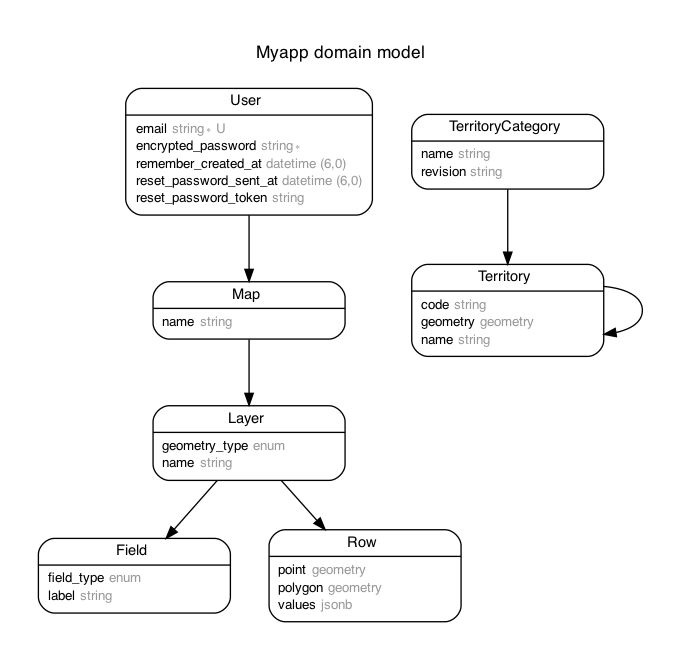
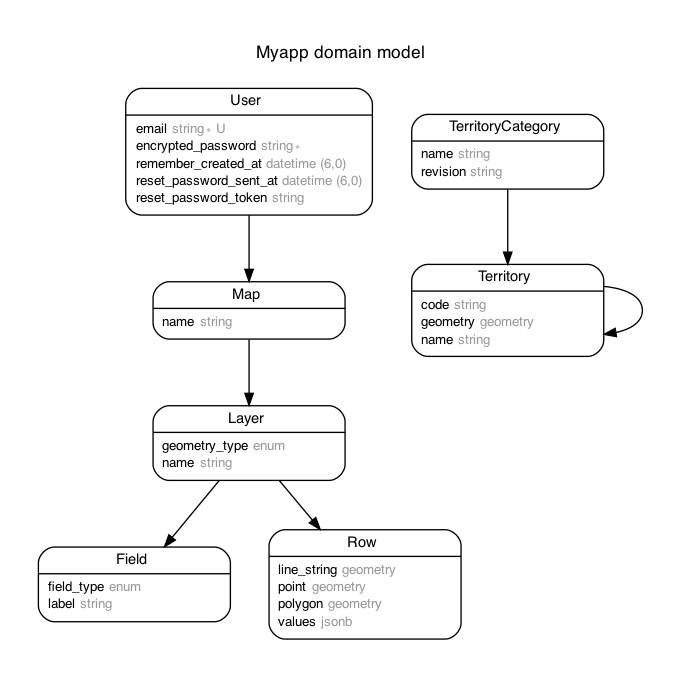
Add Layer type line_string
fixes #37

diff --git a/app/javascript/controllers/map_controller.js b/app/javascript/controllers/map_controller.js
@@ -6,7 +6,7 @@ import PresenceTrackers from 'lib/presence_trackers'
 import MapboxDraw from '@mapbox/mapbox-gl-draw'
 
 export default class extends Controller {
-  static targets = ['longitudeField', 'latitudeField', 'polygonField', 'newPolygonForm', 'newPointForm', 'map', 'point', 'polygon']
+  static targets = ['longitudeField', 'latitudeField', 'lineStringField', 'polygonField', 'newPolygonForm', 'newLineStringForm', 'newPointForm', 'map', 'point', 'lineString', 'polygon']
   static values = {
     editable: Boolean,
     layerId: String,
@@ -54,10 +54,24 @@ export default class extends Controller {
     this.draw.delete(polygon.id)
   }
 
+  lineStringTargetConnected (lineString) {
+    // a lineString can be connected when this.draw isn’t initialized yet
+    if (this.draw) {
+      this.#addLineString(lineString)
+    }
+  }
+
+  lineStringTargetDisconnected (lineString) {
+    this.draw.delete(lineString.id)
+  }
+
   #initMap () {
     this.map = newMap(this.mapTarget)
     if (this.geometryTypeValue === 'point') {
       this.markers.forEach(marker => marker.addTo(this.map))
+    } else if (this.geometryTypeValue === 'line_string') {
+      this.#initLineStringDraw()
+      this.lineStringTargets.forEach(lineString => this.#addLineString(lineString))
     } else if (this.geometryTypeValue === 'polygon') {
       this.#initPolygonDraw()
       this.polygonTargets.forEach(polygon => this.#addPolygon(polygon))
@@ -90,6 +104,51 @@ export default class extends Controller {
       clearTimeout(this.clickTimer)
       this.clickTimer = null
     }
+  }
+
+  #initLineStringDraw () {
+    const rwOptions = {
+      displayControlsDefault: false,
+      // Select which mapbox-gl-draw control buttons to add to the map.
+      controls: {
+        line_string: true
+      },
+      // Set mapbox-gl-draw to draw by default.
+      // The user does not have to click the polygon control button first.
+      defaultMode: 'draw_line_string'
+    }
+
+    const roOptions = {
+      displayControlsDefault: false
+    }
+
+    this.draw = new MapboxDraw(this.editableValue ? rwOptions : roOptions)
+    this.map.addControl(this.draw)
+
+    if (this.editableValue) {
+      this.map.on('draw.create', ({ features }) => {
+        this.lineStringFieldTarget.value = JSON.stringify(features[0].geometry)
+        this.newLineStringFormTarget.requestSubmit()
+        // When we submit the drawn line_string, we get one back from the server through turbo
+        // So we remove the one we’ve just drawn
+        this.draw.delete(features[0].id)
+      })
+      this.map.on('draw.update', ({ features }) => {
+        const id = features[0].id
+        const lineString = document.getElementById(id)
+        lineString.lineStringController.update(features[0].geometry)
+      })
+    }
+  }
+
+  #addLineString (lineString) {
+    const geometry = lineString.lineStringController.geojson()
+    const feature = {
+      id: lineString.id,
+      type: 'Feature',
+      geometry
+    }
+    this.draw.add(feature)
   }
 
   #initPolygonDraw () {

diff --git a/app/javascript/controllers/line_string_controller.js b/app/javascript/controllers/line_string_controller.js
@@ -1,0 +1,24 @@
+import { Controller } from '@hotwired/stimulus'
+
+export default class extends Controller {
+  static targets = ['form', 'geojson']
+
+  connect () {
+    // Small hack inspired by https://dev.to/leastbad/the-best-one-line-stimulus-power-move-2o90
+    this.element.lineStringController = this
+    this.element.dataset.mapTarget = 'lineString'
+  }
+
+  save () {
+    this.formTarget.requestSubmit()
+  }
+
+  geojson () {
+    return JSON.parse(this.geojsonTarget.value)
+  }
+
+  update (geojson) {
+    this.geojsonTarget.value = JSON.stringify(geojson)
+    this.formTarget.requestSubmit()
+  }
+}

diff --git a/db/schema.rb b/db/schema.rb
@@ -10,7 +10,7 @@
 #
 # It's strongly recommended that you check this file into your version control system.
 
-ActiveRecord::Schema[7.0].define(version: 2022_06_29_102323) do
+ActiveRecord::Schema[7.0].define(version: 2022_07_04_102157) do
   # These are extensions that must be enabled in order to support this database
   enable_extension "pg_trgm"
   enable_extension "pgcrypto"
@@ -28,7 +28,7 @@ ActiveRecord::Schema[7.0].define(version: 2022_06_29_102323) do
 
   create_enum :geometry_type_enum, [
     "point",
-    "linestring",
+    "line_string",
     "polygon",
   ], force: :cascade
 
@@ -65,6 +65,7 @@ ActiveRecord::Schema[7.0].define(version: 2022_06_29_102323) do
     t.datetime "created_at", default: -> { "CURRENT_TIMESTAMP" }, null: false
     t.datetime "updated_at", default: -> { "CURRENT_TIMESTAMP" }, null: false
     t.geometry "polygon", limit: {:srid=>4326, :type=>"st_polygon"}
+    t.geometry "line_string", limit: {:srid=>4326, :type=>"line_string"}
     t.index ["layer_id"], name: "index_rows_on_layer_id"
   end
 

diff --git a/app/models/row.rb b/app/models/row.rb
@@ -2,13 +2,14 @@
 #
 # Table name: rows
 #
-#  id         :uuid             not null, primary key
-#  point      :geometry         point, 0
-#  polygon    :geometry         polygon, 4326
-#  values     :jsonb
-#  created_at :datetime         not null
-#  updated_at :datetime         not null
-#  layer_id   :uuid
+#  id          :uuid             not null, primary key
+#  line_string :geometry         linestring, 4326
+#  point       :geometry         point, 0
+#  polygon     :geometry         polygon, 4326
+#  values      :jsonb
+#  created_at  :datetime         not null
+#  updated_at  :datetime         not null
+#  layer_id    :uuid
 #
 # Indexes
 #
@@ -49,8 +50,8 @@ class Row < ApplicationRecord
     case layer.geometry_type
     when "point"
       point
-    when "line"
-      line
+    when "line_string"
+      line_string
     when "polygon"
       polygon
     else

diff --git a/app/models/layer.rb b/app/models/layer.rb
@@ -21,7 +21,7 @@ class Layer < ApplicationRecord
   belongs_to :map
   has_many :fields, dependent: :delete_all
   has_many :rows, dependent: :delete_all
-  enum enum_geometry_type: {point: :point, linestring: :linestring, polygon: :polygon, territory: :territory}
+  enum enum_geometry_type: {point: :point, line_string: :line_string, polygon: :polygon, territory: :territory}
   validates :geometry_type, inclusion: {in: enum_geometry_types.keys}
 
   after_update_commit -> { broadcast_replace_to self, target: "layer-header", partial: "layers/name" }

diff --git a/app/controllers/rows_controller.rb b/app/controllers/rows_controller.rb
@@ -87,6 +87,9 @@ class RowsController < ApplicationController
     elsif @layer.geometry_type == "polygon"
       polygon = params.require(:row).permit(:polygon)[:polygon]
       @geometry = RGeo::GeoJSON.decode(polygon, geo_factory: RGEO_FACTORY)
+    elsif @layer.geometry_type == "line_string"
+      line_string = params.require(:row).permit(:line_string)[:line_string]
+      @geometry = RGeo::GeoJSON.decode(line_string, geo_factory: RGEO_FACTORY)
     else
       logger.error("Unsupported geometry type #{@layer.geometry_type}")
     end

diff --git a/db/migrate/20220704102157_add_line_string_to_row.rb b/db/migrate/20220704102157_add_line_string_to_row.rb
@@ -1,0 +1,6 @@
+class AddLineStringToRow < ActiveRecord::Migration[7.0]
+  def change
+    rename_enum_value :geometry_type_enum, :linestring, :line_string
+    add_column :rows, :line_string, :line_string, srid: 4326
+  end
+end
